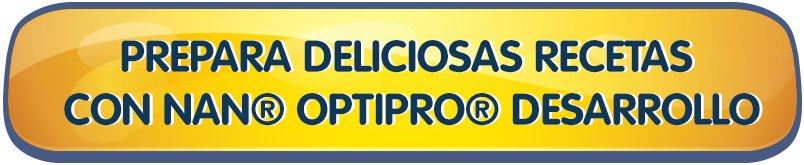
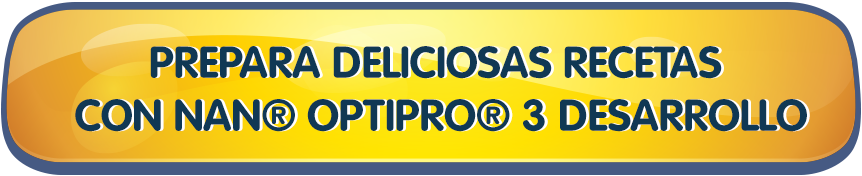
página de videos y seo de nan

Changed region(s): [[0.0, 0.0, 1.0, 1.0], [0.0622, 0.5455, 0.9639, 0.7576], [0.1244, 0.2121, 0.8706, 0.4545]]

diff --git a/protected/views/campania/nan-recetas.php b/protected/views/campania/nan-recetas.php
@@ -1,0 +1,140 @@
+
+<?php $this->pageTitle = "Recetas Nan optipro - La Rebaja Virtual"; ?>
+
+<?php
+$this->metaTags = "<meta http-equiv='X-UA-Compatible' content='IE=edge'>
+    <meta name='description' content='Nan Optipro 3 Desarrollo de Nestlé trae unas deliciosas recetas fáciles de preparar para que tu hijo consuma proteína de una manera divertida.'>
+    <meta name='Recetas para niños, loncheras, proteína para niños.'>
+
+	<!-- styles -->
+	<style>
+        .background {background-image:url(".Yii::app()->request->baseUrl."/images/contenido/nan/background.jpg);background-size:cover;}
+        @font-face {
+            font-family: VAGRoundedStd-Bold;
+            src: url(".Yii::app()->request->baseUrl."/images/contenido/nan/font/VAGRoundedStd-Bold.otf);
+        }
+        .copy{font-family: VAGRoundedStd-Bold;color:#fff;font-size:11pt;text-align:center;}
+        .space{height:34px;}
+        .end {margin-top: -54px;}
+        .compra-online {width: 70%;margin: 0px auto 0px;}
+        .compra-online-movil {width: 60%;}
+	</style>
+
+    ";
+?>
+
+<!--Versión movil-->
+<?php if ($this->isMobile): ?>
+    <section>
+        <img width="100%" src="<?= Yii::app()->request->baseUrl ?>/images/contenido/nan/banner-nan-optipro.jpg">  
+    </section>
+    <div class="background" style="margin-top: -1%;">
+        <img style="padding: 5% 3%;" width="95%" src="<?= Yii::app()->request->baseUrl ?>/images/contenido/nan/optipro-proteina.png" alt="Banner Nan Optipro">       
+        <center>
+            <img width="100%" src="<?= Yii::app()->request->baseUrl ?>/images/contenido/nan/mod-recetas.png" alt="Recetas Nan Optipro">   
+        </center>
+        <section>
+            <iframe width="100%" style="margin-top: 15px;" src="https://www.youtube.com/embed/8bckex25LDs" frameborder="0" allowfullscreen></iframe>
+        </section>
+        <section>
+            <iframe width="100%" style="margin-top: 15px;" src="https://www.youtube.com/embed/E1TrSvbmS2Q?list=PLLEhMEIG7E97afwfr_lMSAQjejl_lfWAJ" frameborder="0" allowfullscreen></iframe> 
+        </section>
+        <section>
+            <iframe width="100%" style="margin-top: 15px;" height="190" src="https://www.youtube.com/embed/abBQhy3vmlA?list=PLLEhMEIG7E97afwfr_lMSAQjejl_lfWAJ" frameborder="0" allowfullscreen></iframe> 
+        </section>
+        <section>
+             <iframe width="100%" style="margin-top: 15px;" src="https://www.youtube.com/embed/H8jw2AhPt-Y?list=PLLEhMEIG7E97afwfr_lMSAQjejl_lfWAJ" frameborder="0" allowfullscreen></iframe>
+        </section>
+        <section>
+            <iframe width="100%" style="margin-top: 15px;" src="https://www.youtube.com/embed/1hpaHKt-hs4?list=PLLEhMEIG7E97afwfr_lMSAQjejl_lfWAJ" frameborder="0" allowfullscreen></iframe> 
+        </section>
+        <section>
+            <iframe width="100%" style="margin-top: 15px;" src="https://www.youtube.com/embed/xu9TM2T3Ylo?list=PLLEhMEIG7E97afwfr_lMSAQjejl_lfWAJ" frameborder="0" allowfullscreen></iframe> 
+        </section>
+        <section>
+            <iframe width="100%" style="margin-top: 15px;" src="https://www.youtube.com/embed/BlqwKLjx41Y?list=PLLEhMEIG7E97afwfr_lMSAQjejl_lfWAJ" frameborder="0" allowfullscreen></iframe> 
+        </section>
+        <section>
+            <iframe width="100%" style="margin-top: 15px;" src="https://www.youtube.com/embed/_YBjJPeelQ0?list=PLLEhMEIG7E97afwfr_lMSAQjejl_lfWAJ" frameborder="0" allowfullscreen></iframe>
+        </section>
+        <section>
+            <iframe width="100%" style="margin-top: 15px;" src="https://www.youtube.com/embed/W5N7OClImrE?list=PLLEhMEIG7E97afwfr_lMSAQjejl_lfWAJ" frameborder="0" allowfullscreen></iframe>
+        </section>
+        <div class="space"></div>     
+
+    </div>
+    <!--Version movil-->   
+
+
+    <!--Versión escritorio-->
+<?php else: ?>
+    <div class="container">
+        <div class="row">
+            <img src="<?= Yii::app()->request->baseUrl ?>/images/contenido/nan/banner-nan-optipro.jpg" class="img-responsive" alt="Banner Nan Optipro">
+        </div>
+        <div class="row background">
+            <div class="space"></div>        
+       
+            <div class="container">
+                <div class="col-md-6">
+                   <img style="width: 81%;margin: 0 auto;" src="<?= Yii::app()->request->baseUrl ?>/images/contenido/nan/mod-recetas.png" class="img-responsive" alt="Recetas Nan Optipro"> 
+                </div>
+                <div class="col-md-6">
+                    <img style="width: 85%;" src="<?= Yii::app()->request->baseUrl ?>/images/contenido/nan/optipro-proteina.png" class="img-responsive" alt="Banner Nan Optipro">                   
+                </div>
+            </div>
+            <div class="container">
+                <div class="col-sm-4 col-md-4">
+                    <div class="space"></div>
+                    <iframe width="100%" height="190" src="https://www.youtube.com/embed/8bckex25LDs" frameborder="0" allowfullscreen></iframe>                    
+                </div>
+                <div class="col-sm-4 col-md-4">
+                    <div class="space"></div>
+                    <iframe width="100%" height="190" src="https://www.youtube.com/embed/E1TrSvbmS2Q?list=PLLEhMEIG7E97afwfr_lMSAQjejl_lfWAJ" frameborder="0" allowfullscreen></iframe>                    
+                </div>                
+                <div class="col-sm-4 col-md-4">
+                    <div class="space"></div>
+                    <iframe width="100%" height="190" src="https://www.youtube.com/embed/abBQhy3vmlA?list=PLLEhMEIG7E97afwfr_lMSAQjejl_lfWAJ" frameborder="0" allowfullscreen></iframe>                    
+                </div>
+            </div>
+            <div class="container">
+                <div class="col-sm-4 col-md-4">
+                    <div class="space"></div>
+                    <iframe width="100%" height="190" src="https://www.youtube.com/embed/H8jw2AhPt-Y?list=PLLEhMEIG7E97afwfr_lMSAQjejl_lfWAJ" frameborder="0" allowfullscreen></iframe>                    
+                </div>
+                <div class="col-sm-4 col-md-4">
+                    <div class="space"></div>
+                    <iframe width="100%" height="190" src="https://www.youtube.com/embed/1hpaHKt-hs4?list=PLLEhMEIG7E97afwfr_lMSAQjejl_lfWAJ" frameborder="0" allowfullscreen></iframe>                    
+                </div>
+                <div class="col-sm-4 col-md-4">
+                    <div class="space"></div>
+                    <iframe width="100%" height="190" src="https://www.youtube.com/embed/xu9TM2T3Ylo?list=PLLEhMEIG7E97afwfr_lMSAQjejl_lfWAJ" frameborder="0" allowfullscreen></iframe>                    
+                </div>
+            </div>
+            <div class="container">
+                <div class="col-sm-4 col-md-4">
+                    <div class="space"></div>
+                    <iframe width="100%" height="190" src="https://www.youtube.com/embed/BlqwKLjx41Y?li=stPLLEhMEIG7E97afwfr_lMSAQjejl_lfWAJ" frameborder="0" allowfullscreen></iframe>                    
+                </div>
+                <div class="col-sm-4 col-md-4">
+                    <div class="space"></div>
+                    <iframe width="100%" height="190" src="https://www.youtube.com/embed/_YBjJPeelQ0?list=PLLEhMEIG7E97afwfr_lMSAQjejl_lfWAJ" frameborder="0" allowfullscreen></iframe>
+                </div>
+                <div class="col-sm-4 col-md-4">
+                    <div class="space"></div>
+                    <iframe width="100%" height="190" src="https://www.youtube.com/embed/W5N7OClImrE?list=PLLEhMEIG7E97afwfr_lMSAQjejl_lfWAJ" frameborder="0" allowfullscreen></iframe>
+                </div>
+            </div>
+
+            <div>
+                <div class="space"></div>
+                <p class="copy">
+                    Productos a partir de 24 meses. <br>
+                    *Junto con una alimentación balanceada y ejercicio físico diario.
+                </p>
+                <img src="<?= Yii::app()->request->baseUrl ?>/images/contenido/nan/end.png" class="img-responsive end"> 
+            </div>
+        </div>
+    </div>
+    <!--Fin versión escritorio-->   
+<?php endif; ?>

diff --git a/protected/views/campania/nan.php b/protected/views/campania/nan.php
@@ -3,8 +3,8 @@
 
 <?php
 $this->metaTags = "<meta http-equiv='X-UA-Compatible' content='IE=edge'>
-    <meta name='description' content=''>
-    <meta name='keywords' content=''>
+    <meta name='description' content='Nan Optipro 3 Desarrollo de Nestlé es una  proteína optimizada que ayuda a construir bases sólidas para el crecimiento y desarrollo de su hijo.'>
+    <meta name='keywords' content='crecimiento, proteína para niños, desarrollo niños.'>
 
 	<!-- styles -->
 	<style>
@@ -36,7 +36,7 @@ $this->metaTags = "<meta http-equiv='X-UA-Compatible' content='IE=edge'>
             </a>
         </center>
         <center>
-            <a href="#">
+            <a href="<?= Yii::app()->request->baseUrl ?>/campania/contenido/nan-recetas">
                 <img width="100%" src="<?= Yii::app()->request->baseUrl ?>/images/contenido/nan/recetas.png" alt="Recetas Nan Optipro">                   
             </a>
         </center>
@@ -81,7 +81,7 @@ $this->metaTags = "<meta http-equiv='X-UA-Compatible' content='IE=edge'>
                    <img style="margin: 15px auto 0px;width:65%;" src="<?= Yii::app()->request->baseUrl ?>/images/contenido/nan/entrega-en-1-hora.png" class="img-responsive" alt="Entrega en 1 hora Nan Optipro"> 
                 </a>
                 <div class="space"></div>
-                <a href="#">
+                <a href="<?= Yii::app()->request->baseUrl ?>/campania/contenido/nan-recetas">
                     <img src="<?= Yii::app()->request->baseUrl ?>/images/contenido/nan/recetas.png" class="img-responsive" alt="Recetas Nan Optipro">                   
                 </a>
             </div>
